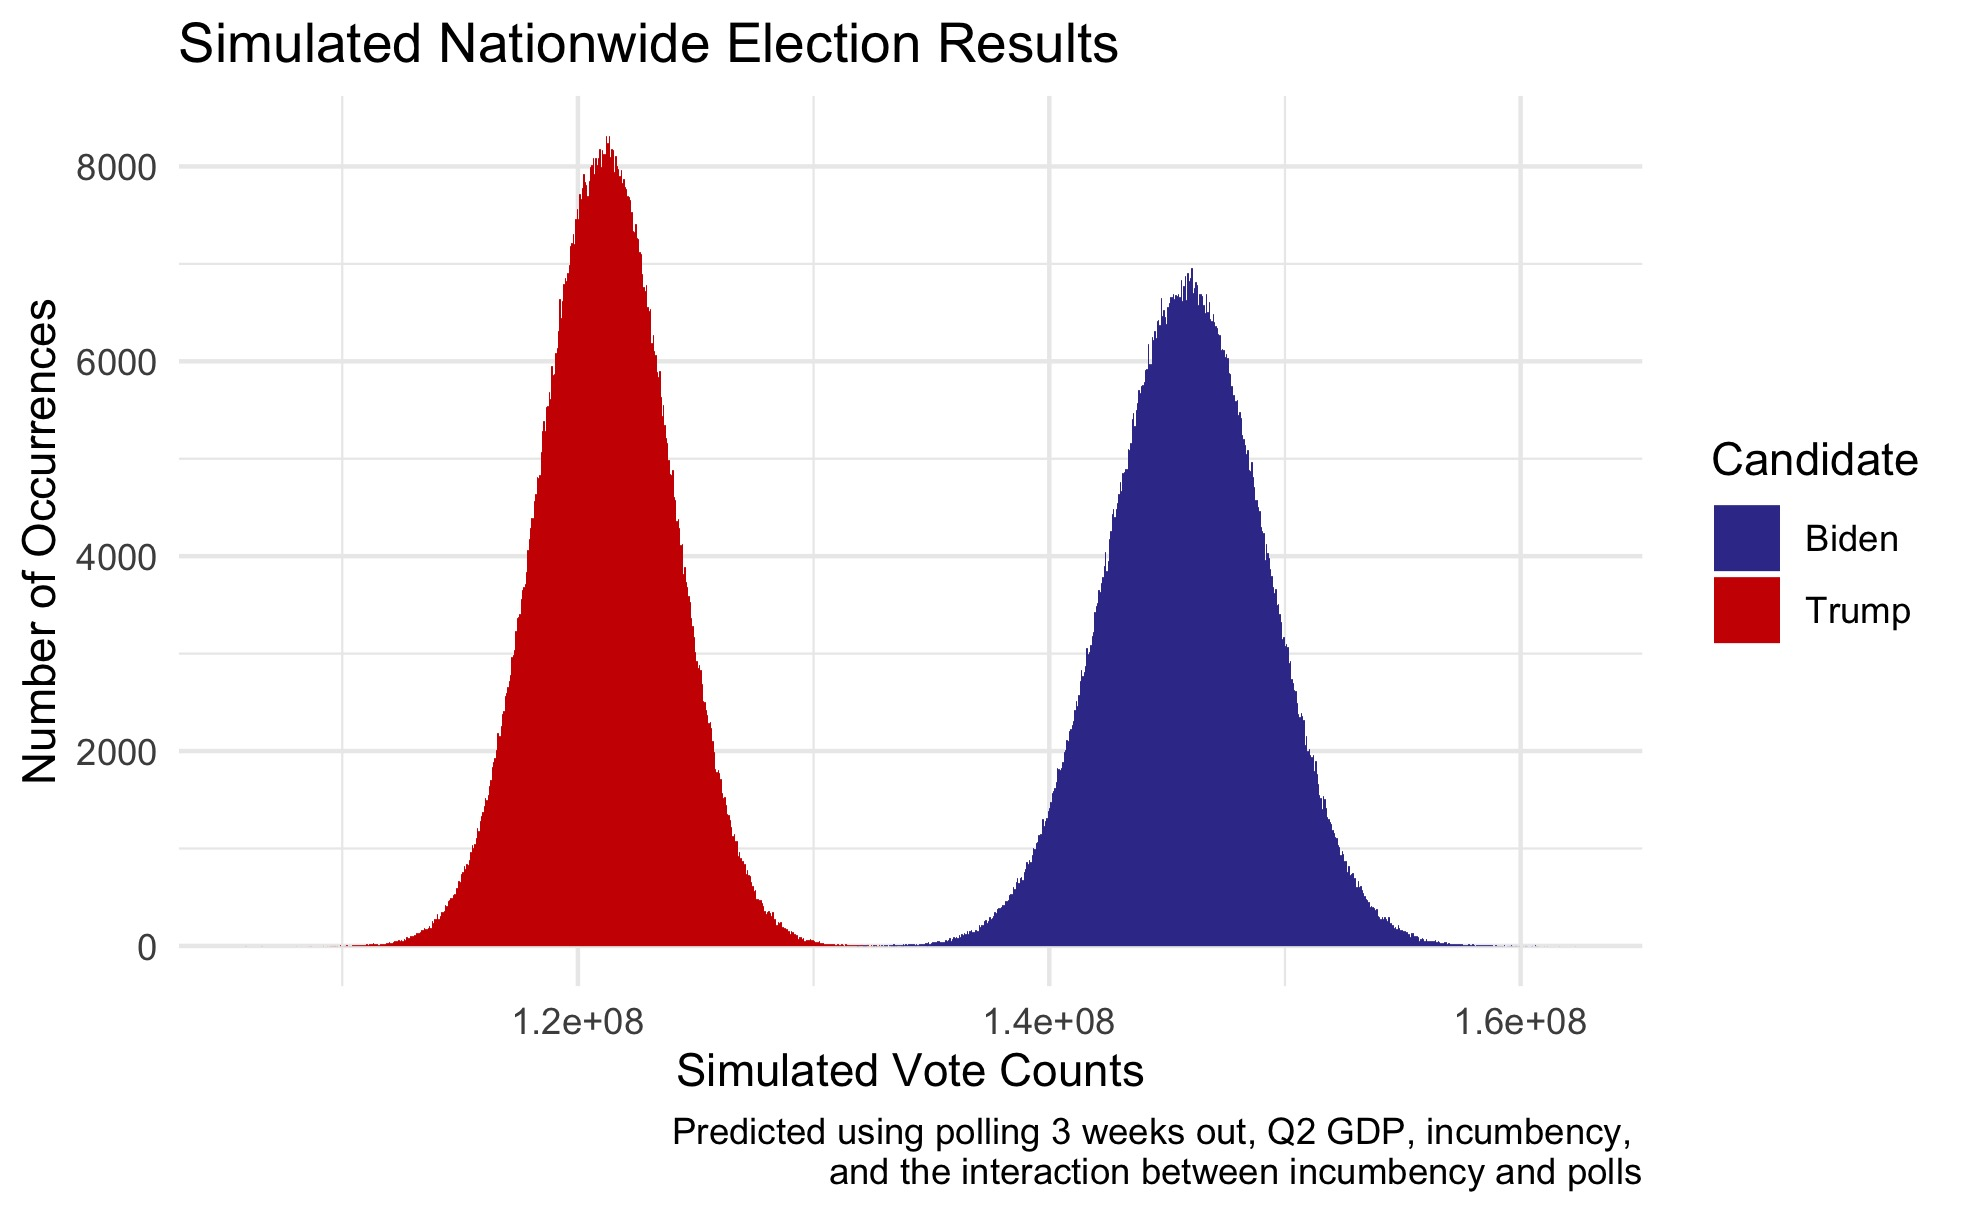
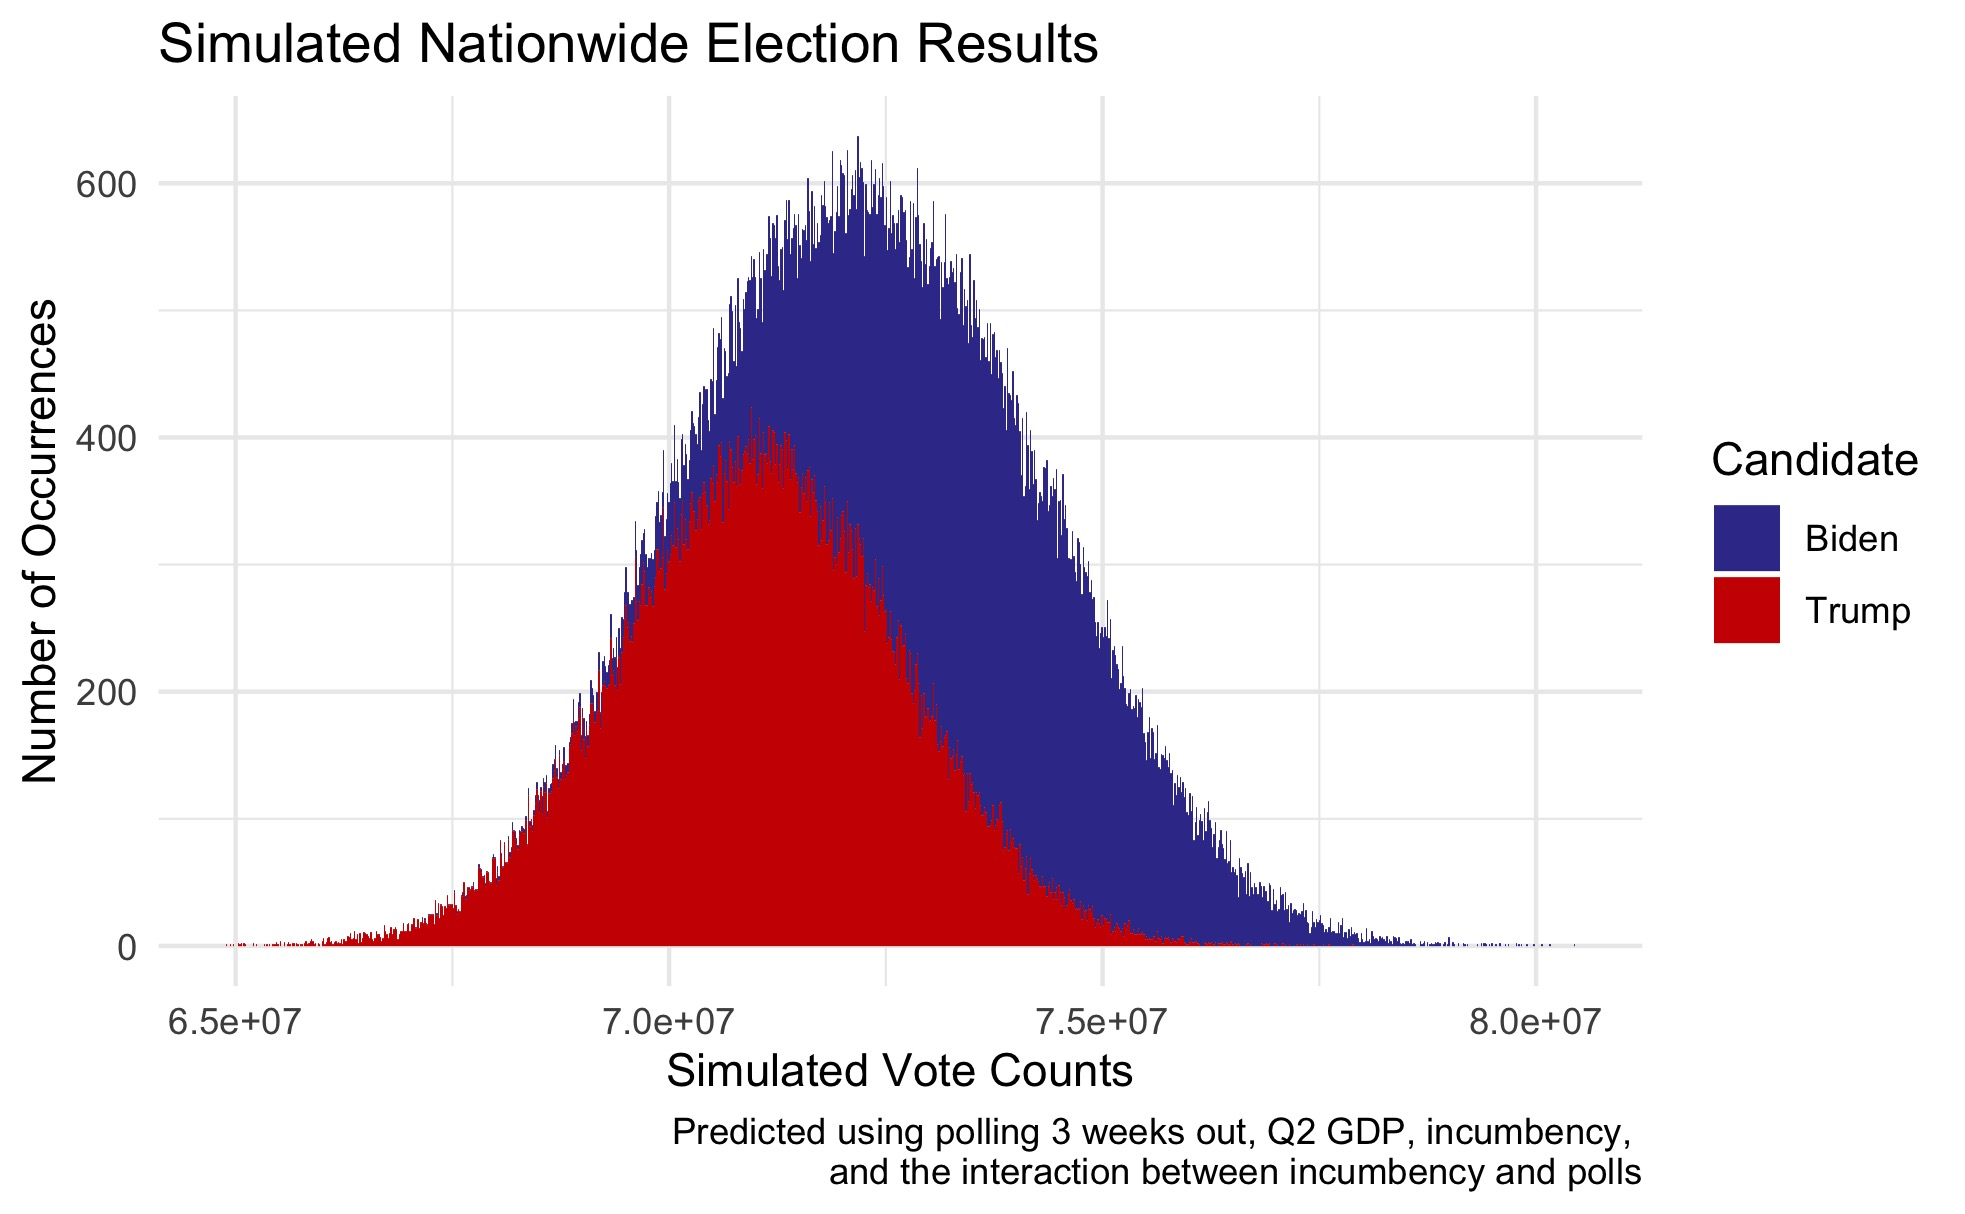
added more model descriptions

diff --git a/posts/turnout.md b/posts/turnout.md
@@ -64,11 +64,9 @@ Using this method, my forecast yielded a prediction of 321 electoral votes for B
 
 On top of a state-by-state model, I constructed a binomial logit model for the nationwide popular vote following a similar binomial logit procedure. For the nationwide model, I predicted vote counts for each party using polling numbers, incumbency status, the interaction between polling and incumbency, and Q1 GD growth. I simulated fluctuations in turnout by drawing from a normal distributions of possibilities for national VEP, and I ran 100,000 simulations.
 
-A national model predicts that Biden will receive approximately **52.8%** two-party popular vote, with Trump receiving **47.2%**.	
-- simulate fluctuations in turnout
-![nation-sim](../figures/turnout/nation_sim.jpg)
+A national model predicts that Biden will receive approximately **50.8%** two-party popular vote, with Trump receiving **49.2%**.	In the below histogram, only approximately 24% of Trump's vote counts are greater than Biden's.
 
-avg_support * incumbent + gdp_growth_qt
+![nation-sim](../figures/turnout/nation_sim.jpg)
 
 
 ### Looking Ahead
